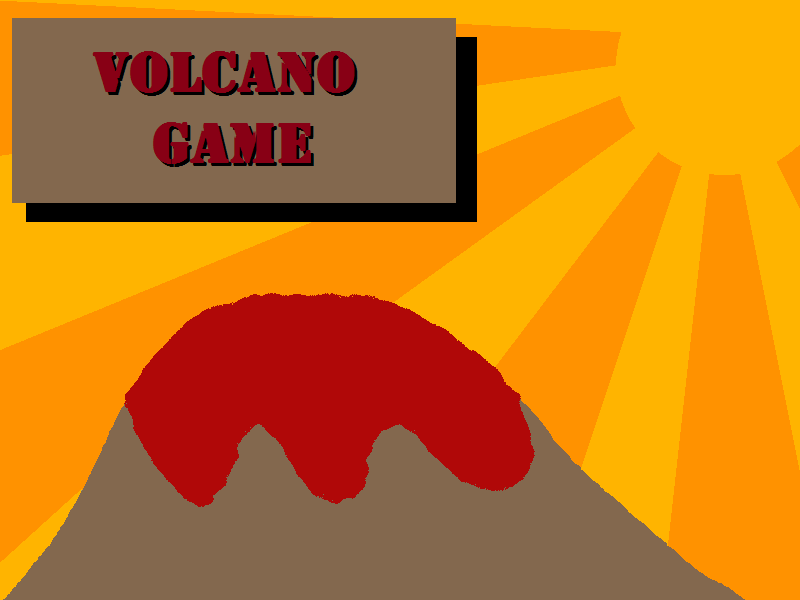
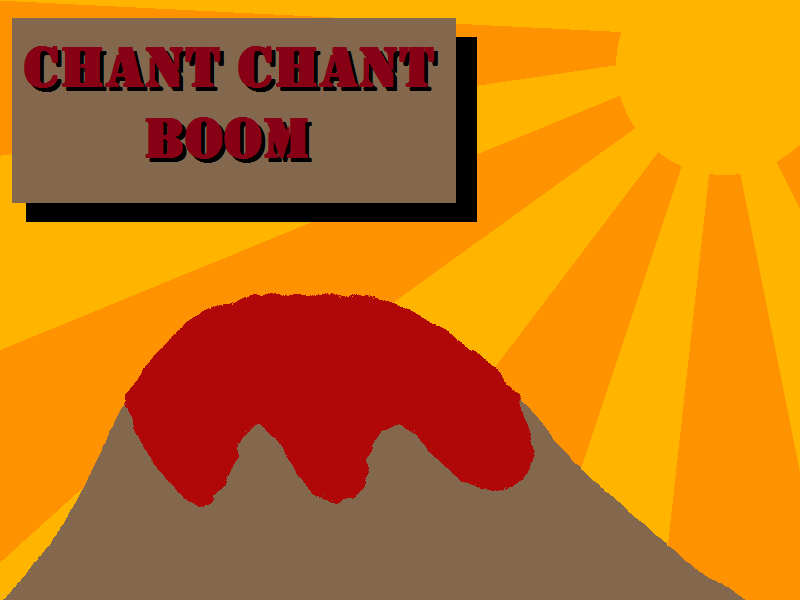
New title

Changed region(s): [[0.0312, 0.06, 0.5625, 0.3]]

diff --git a/js/states/gameOver.js b/js/states/gameOver.js
@@ -51,7 +51,7 @@ GameOver.prototype = {
 		gameOverTimer.add(Phaser.Timer.SECOND * 2, this.showPerformancePrompt, this);
 		gameOverTimer.start();
 
-		this.worshipperText = this.game.add.text(this.game.world.centerX / 2, 140, this.game.gameManager.totalFollowers + " True worshippers", {font: 'Consolas', fontSize: 16, fill: "#FFFFFF"});
+		this.worshipperText = this.game.add.text(this.game.world.centerX / 2, 140, this.game.gameManager.totalFollowers + " True believers", {font: 'Consolas', fontSize: 16, fill: "#FFFFFF"});
 		this.worshipperText.anchor.setTo(0.5, 0.5);
 		this.worshipperText.visible = false;
 		this.defectorText = this.game.add.text(this.game.world.centerX + (this.game.world.centerX / 2), 140, this.game.gameManager.totalDefectors + " Disbelievers", {font: 'Consolas', fontSize: 16, fill: "#FFFFFF"});
@@ -140,7 +140,7 @@ GameOver.prototype = {
     	this.leftPlatform.body.velocity.y = 0;
     	this.rightPlatform.body.velocity.x = 0;
     	this.rightPlatform.body.velocity.y = 0;
-		this.worshipperText.text = this.worshipperEmitter.totalEmitted + " True worshippers";
+		this.worshipperText.text = this.worshipperEmitter.totalEmitted + " True believers";
 		this.defectorText.text = this.defectorEmitter.totalEmitted + " Disbelievers";
 		if(!this.rotateScale)
 			return;

diff --git a/index.html b/index.html
@@ -55,7 +55,7 @@
 		</script>
 	</head>
 	<body>
-		<div style="margin-bottom: 25px">VOLCANO GAME</div>
+		<div style="margin-bottom: 25px">CHANT CHANT BOOM</div>
 		<div class="flair">
 			<img src="assets/images/Follower idles 1.gif" width="33" height="92" />
 		</div>

diff --git a/js/states/mainMenu.js b/js/states/mainMenu.js
@@ -10,7 +10,7 @@ var MainMenu = function(game){
 };
 
 var graphicAssets = {
-    menuBackground:{URL:'assets/images/Title.png', name:'background'}
+    menuBackground:{URL:'assets/images/Title New.png', name:'background'}
 };
 
 var fontAssets = {
